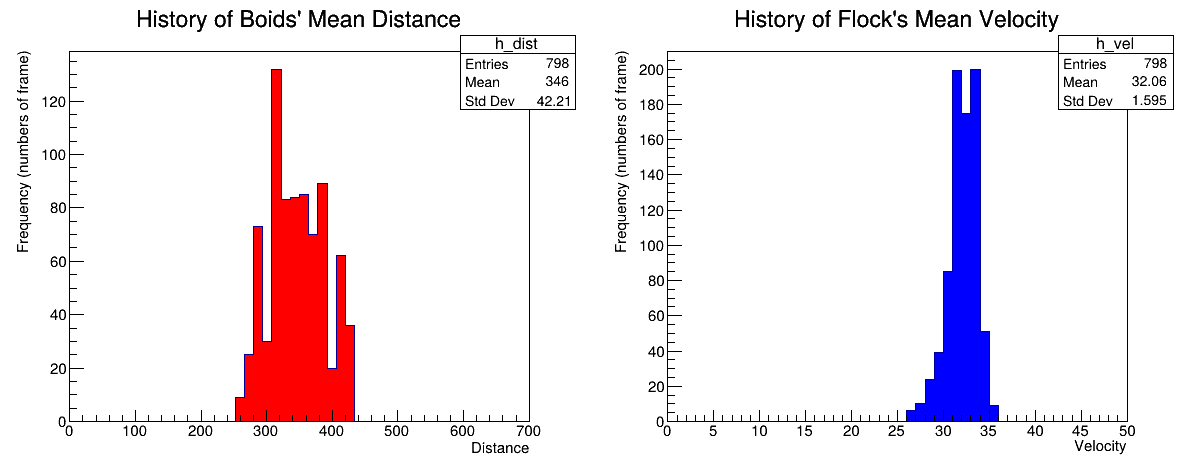
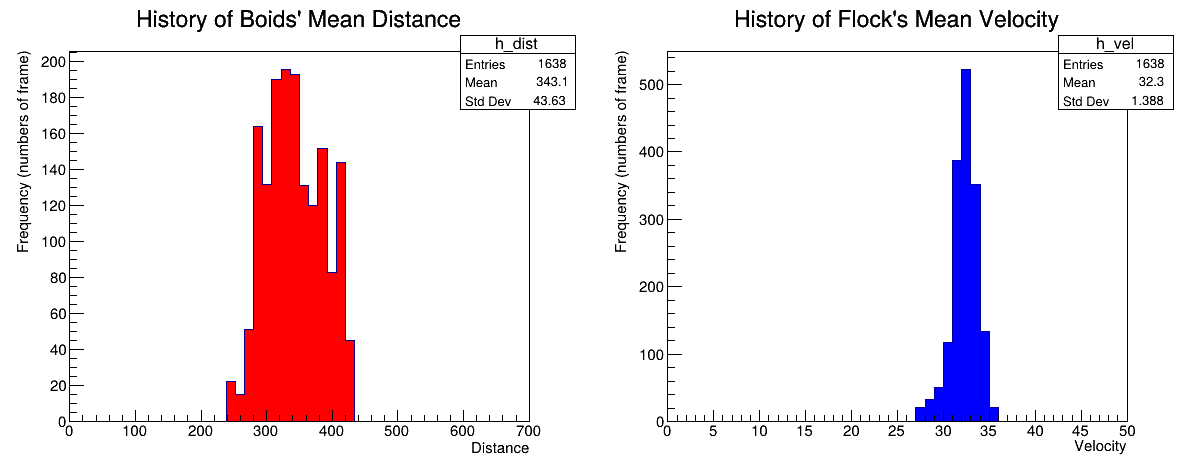
d

diff --git a/input_parameters.cpp b/input_parameters.cpp
@@ -4,8 +4,6 @@
 #include <stdexcept>
 
 namespace pf {
-template <typename T>
-
 void manual_input_boids(Parameters& par, Space& space) {
   read_parameters("Number of boids: ", par.n_boids);
   read_parameters("Separation factor s: ", par.s);
